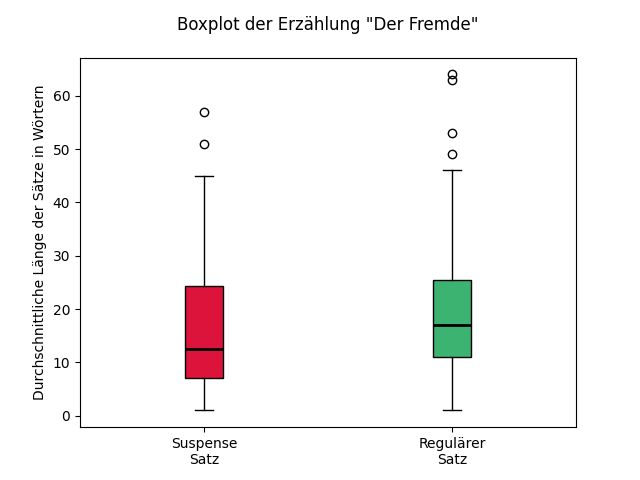
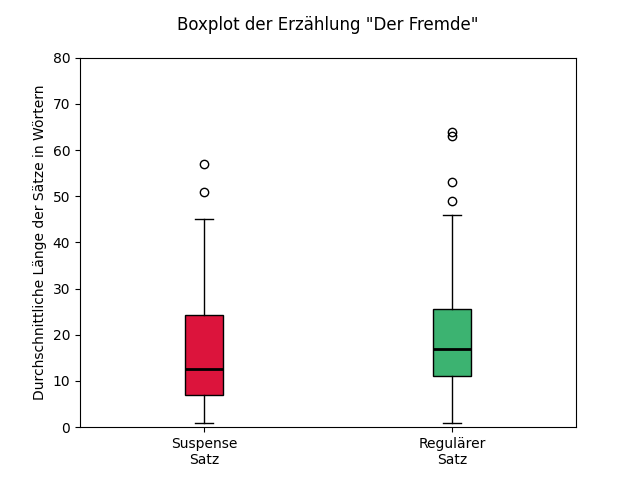
Korrekturen

diff --git a/Python/Plots.py b/Python/Plots.py
@@ -260,7 +260,7 @@ plt.show()
 
 #Boxplot
 
-def boxy(df):
+def boxy(df, y_min, y_max):
     s1 = df[df['Suspense']== '1']['Satzlänge']
     s0 = df[df['Suspense']== '0']['Satzlänge']
 
@@ -277,13 +277,30 @@ def boxy(df):
         median.set_color('black')
         median.set_linewidth(2)
 
+        # rahmendaten
+    def calculate_statistics(series):
+        min_val = np.min(series)
+        q1 = np.percentile(series, 25)
+        median = np.median(series)
+        q3 = np.percentile(series, 75)
+        max_val = np.max(series)
+        return min_val, q1, median, q3, max_val
+
+    s1_stats = calculate_statistics(s1)
+    s0_stats = calculate_statistics(s0)
+
+    print("s1 Stats - Min, Q1, Median, Q3, Max:", s1_stats)
+    print("s0 Stats - Min, Q1, Median, Q3, Max:", s0_stats)
+
     #Beschriftung
-    #plt.ylim(0, 100)
+    plt.ylim(y_min, y_max)
     ax.set_ylabel('Durchschnittliche Länge der Sätze in Wörtern')
     ax.set_title('Boxplot der Erzählung "'+df["Titel"].tolist()[1]+'"', pad=20)
     plt.show()
 
-boxy(g2_cg)
-boxy(g3_cg)
-boxy(g2)
-boxy(g3)
+
+
+boxy(g2, 0, 80)
+boxy(g3, 0, 80)
+boxy(g2_cg, 0, 100)
+boxy(g3_cg, 0, 100)

diff --git a/README.md b/README.md
@@ -1,9 +1,3 @@
-TO-DO:
-- stat ergebnisse nachbessern, whitney du kannst mich mal und stats bibliothek auch >:-(
-- Boxplot hinzufügen + interpretieren
-- Gruppe A und B zusammen testen
-
-
 ## Willkommen bei der Dokumentation meiner Bacherlorarbeit
 
 <p align="left"><a href="#readme-english">Click here for English Version</a></p>
@@ -30,7 +24,11 @@ Natalia.Ratulovska@campus.lmu.de
 Project Link: https://github.com/nataliaratulovska/Bachelorarbeit
 
 ### Danksagung
-Kommt noch...
+Ich möchte mich herzlich bei allen Korrekturlesern bedanken, die sich die Mühe gemacht haben, sich durch diesen Brocken durchzuarbeiten.
+Danke Kati, Nina und Patrick (und Ralf auch wenn deine Rechtschreibung und Grammatik mehr schaden als nutzen)!
+Ein großes Danke geht auch an Florian raus und gern geschehen, jetzt bist du studyflix Profi!
+Ebenfalls Danke an Ralf! Du bist mein (manchmal zu) ruhiges Gegenstück und bändigst jedes Chaos, das durch mich entsteht. Ich hasse es trotzdem immer noch, dass du alles last-minute machst, meine Plots ungünstig findest und mich dafür kritisierst, dass ich den Kuchen über der Spüle esse (es ist sehr effizient!!!).
+Zu guter Letzt geh ein riesen Dankeschön an Julian Schröter raus. Vielen Dank für die spannenden Anregungen, Ideen und die Unterstützung.
 \
 \
 \
@@ -55,4 +53,8 @@ Natalia.Ratulovska@campus.lmu.de
 Project Link: https://github.com/nataliaratulovska/Bachelorarbeit
 
 ### Acknowledgments
-...
+I would like to thank all the proofreaders who took the trouble to work their way through this chunk.
+Thank you Kati, Nina and Patrick (and Ralf even if your spelling and grammar do more harm than good)!
+A big thank you also goes out to Florian and you're welcome, now you're a studyflix pro!
+Also thanks to Ralf! You are my (sometimes too) calm counterpart and tame any chaos I create. I still hate that you do everything last-minute, find my plots inconvenient, and criticize me for eating cake over the sink (it's very efficient!!!).
+Last but not least, a huge thank you goes out to Julian Schröter. Many thanks for the exciting suggestions, ideas and support.
